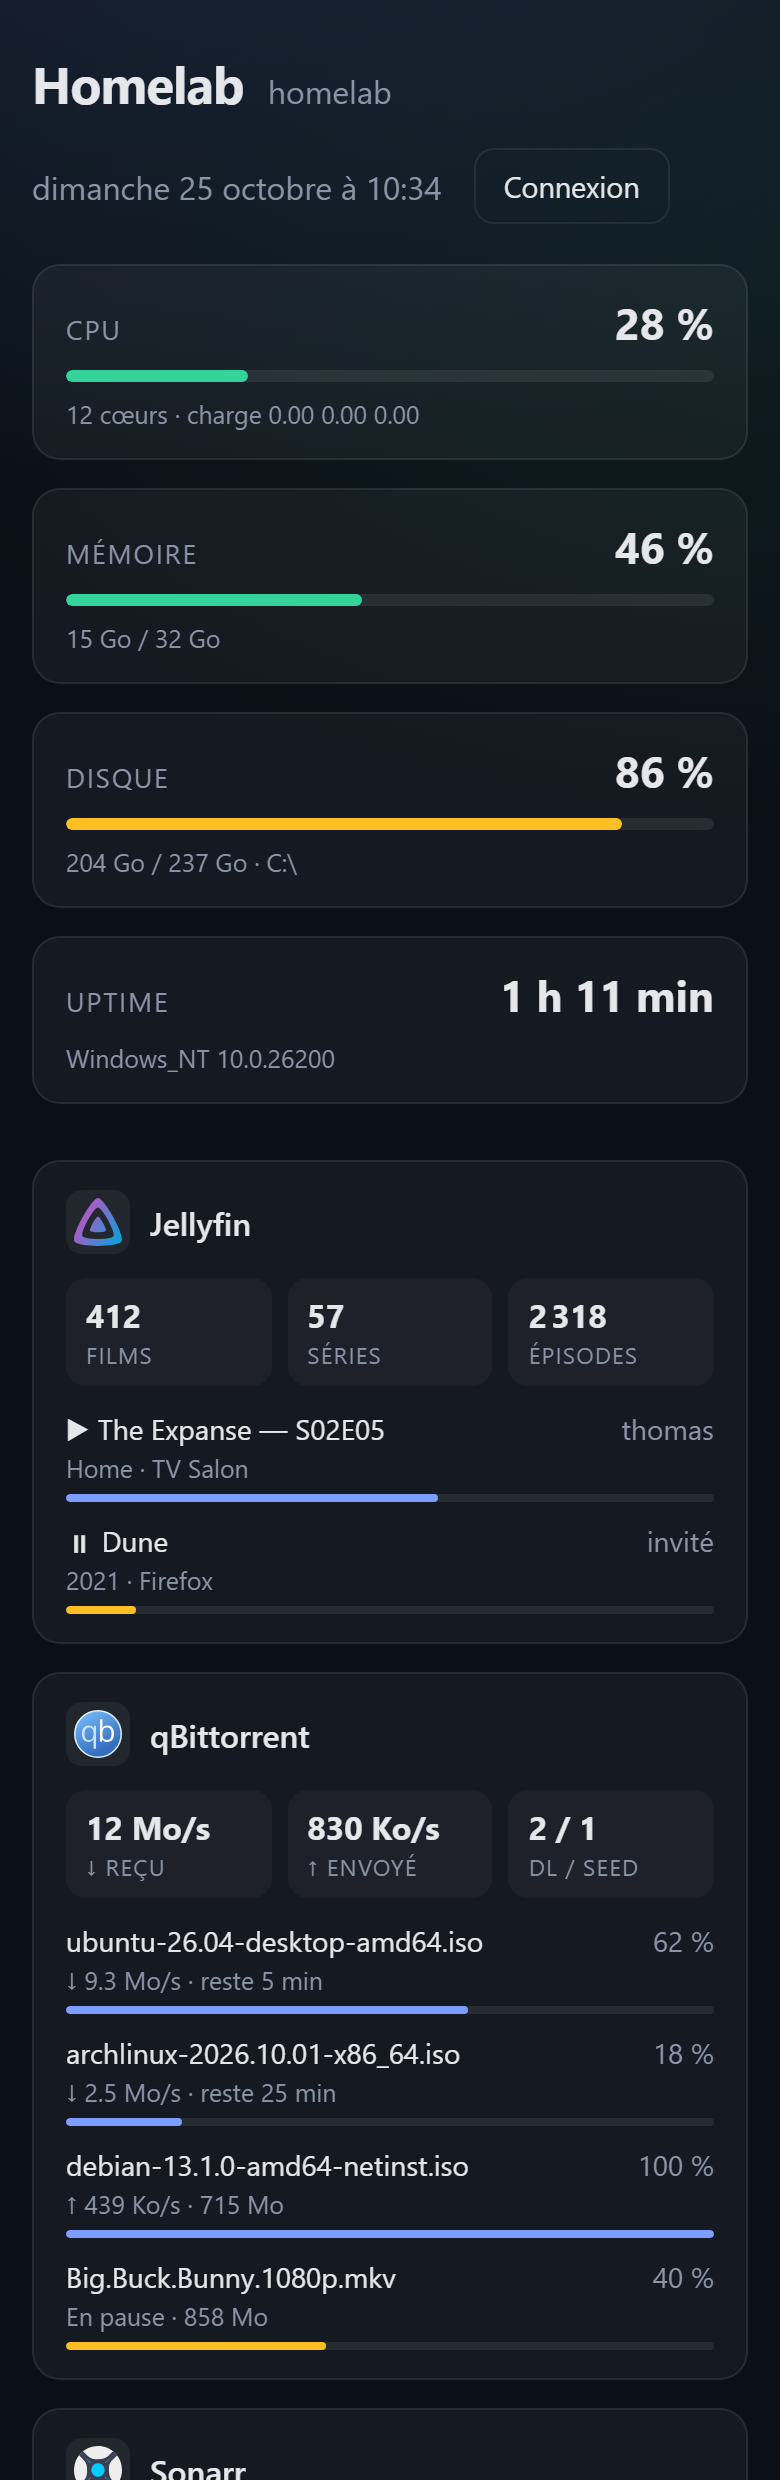
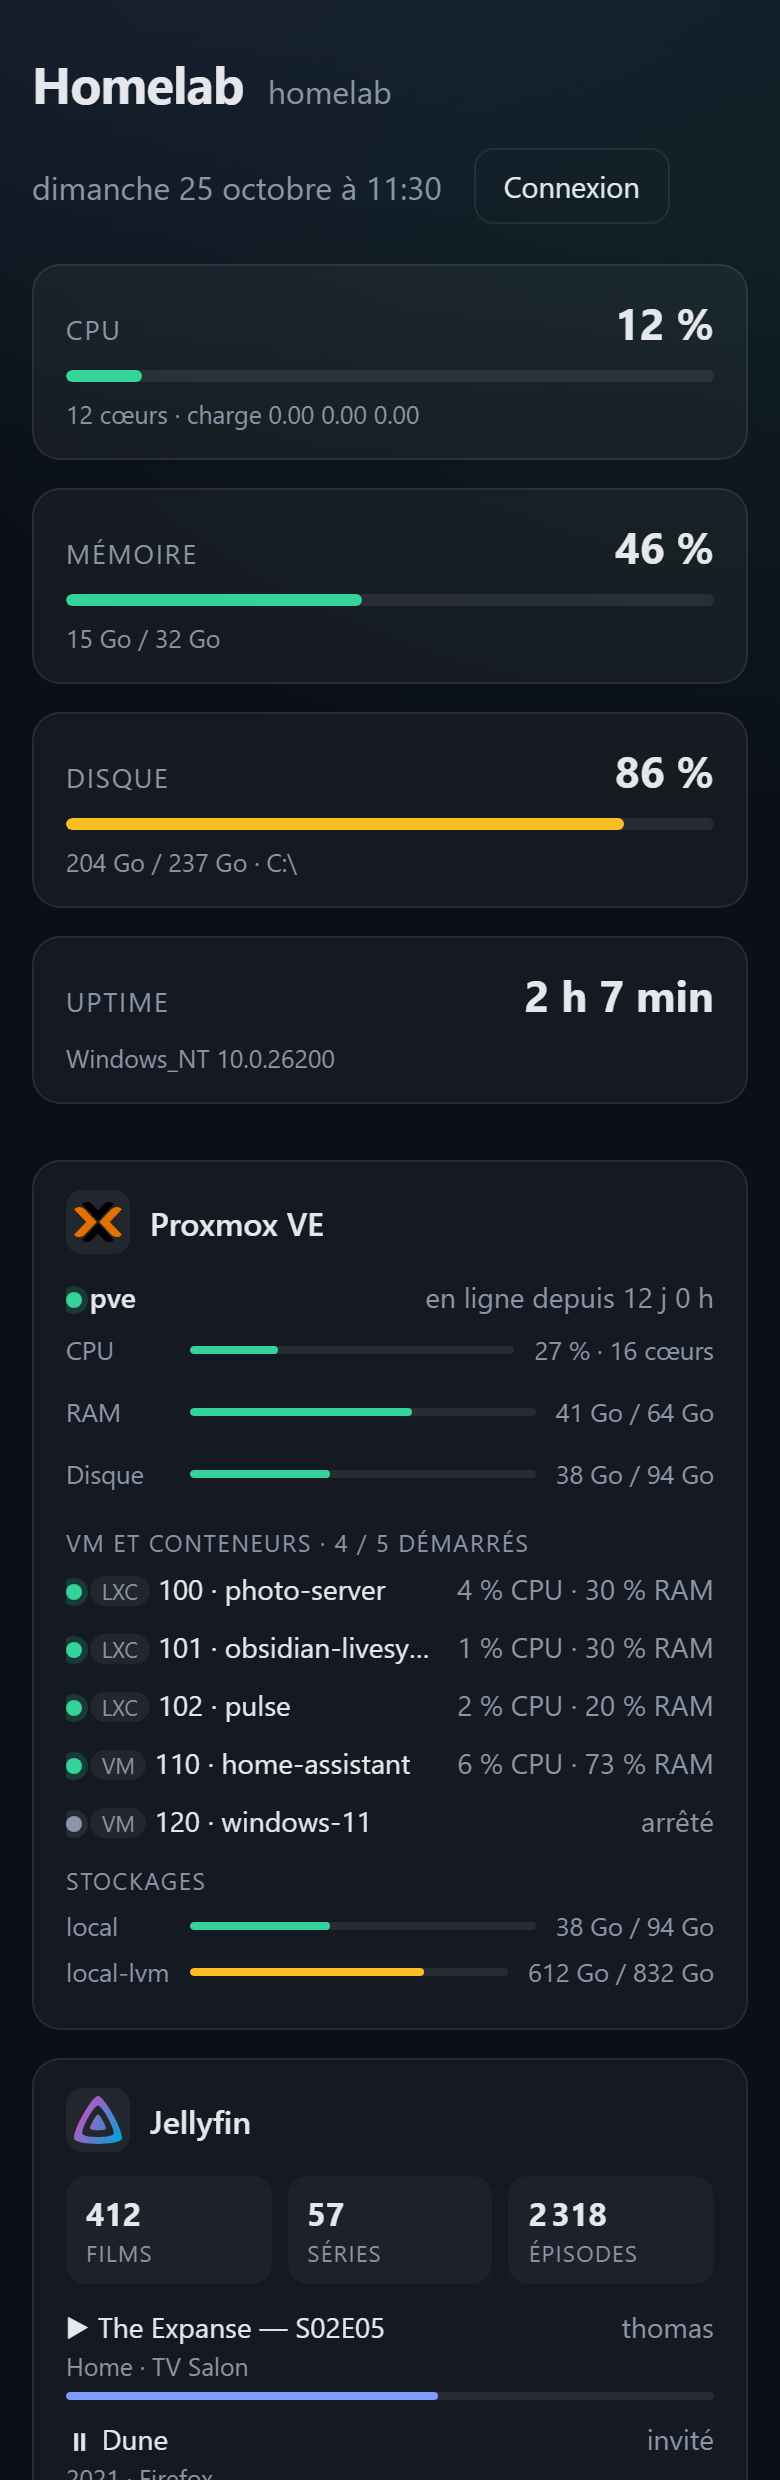
Version 0.2.0 : widget Proxmox VE
- package.json et CHANGELOG en 0.2.0
- Site : Proxmox dans la roadmap (disponible) et la section widgets
- Captures d'écran avec le widget Proxmox

diff --git a/docs/index.html b/docs/index.html
@@ -200,7 +200,7 @@
         <a class="btn" href="https://github.com/Circule-studio/server-dashboard">Voir le code sur GitHub</a>
       </div>
       <div class="shot">
-        <img src="screenshots/dashboard.png" width="1440" height="1400"
+        <img src="screenshots/dashboard.png" width="1440" height="1780"
              alt="Le dashboard : stats CPU, mémoire, disque, widgets Jellyfin, qBittorrent, Sonarr et Radarr, tuiles d'applications et liste des conteneurs Docker">
       </div>
     </header>
@@ -251,6 +251,7 @@
         <h2>Des widgets pour tes services</h2>
         <p class="section-lead">Branche tes applications et suis ce qui se passe sans ouvrir dix onglets.</p>
         <div class="integrations">
+          <span><img src="https://cdn.jsdelivr.net/gh/homarr-labs/dashboard-icons/svg/proxmox.svg" alt="" loading="lazy">Proxmox VE</span>
           <span><img src="https://cdn.jsdelivr.net/gh/homarr-labs/dashboard-icons/svg/jellyfin.svg" alt="" loading="lazy">Jellyfin</span>
           <span><img src="https://cdn.jsdelivr.net/gh/homarr-labs/dashboard-icons/svg/plex.svg" alt="" loading="lazy">Plex</span>
           <span><img src="https://cdn.jsdelivr.net/gh/homarr-labs/dashboard-icons/svg/qbittorrent.svg" alt="" loading="lazy">qBittorrent</span>
@@ -258,10 +259,11 @@
           <span><img src="https://cdn.jsdelivr.net/gh/homarr-labs/dashboard-icons/svg/radarr.svg" alt="" loading="lazy">Radarr</span>
         </div>
         <ul class="checks">
+          <li><b>Proxmox VE :</b> CPU, RAM et disque de l’hôte, état de toutes tes VM et conteneurs LXC.</li>
           <li><b>Jellyfin et Plex :</b> qui regarde quoi, sur quel appareil, avec la progression.</li>
           <li><b>qBittorrent :</b> débits, torrents actifs et temps restant.</li>
           <li><b>Sonarr et Radarr :</b> épisodes et films à venir, file de téléchargement.</li>
-          <li><b>Bientôt :</b> météo, Pi-hole / AdGuard… et le widget que tu proposeras.</li>
+          <li><b>Bientôt :</b> Pi-hole / AdGuard, Immich, météo… et le widget que tu proposeras.</li>
         </ul>
       </div>
       <div class="phone">
@@ -312,11 +314,12 @@ nano .env   # remplace "change-moi"</pre><button class="copy" type="button">Copi
       <p class="section-lead">Où en est le projet et ce qui arrive. Chaque point est une issue GitHub : choisis-en une et lance-toi !</p>
       <div class="roadmap">
         <article class="phase phase-done">
-          <div class="phase-head"><h3>Version 0.1</h3><span class="tag tag-done">Disponible</span></div>
+          <div class="phase-head"><h3>Versions 0.1 – 0.2</h3><span class="tag tag-done">Disponible</span></div>
           <ul>
             <li>Tuiles d'apps avec statut en ligne</li>
             <li>Stats CPU, mémoire, disque, uptime</li>
             <li>Panneau Docker</li>
+            <li>Widget Proxmox VE : hôte, VM et LXC</li>
             <li>Widgets Jellyfin, Plex, qBittorrent, Sonarr, Radarr</li>
             <li>Édition par glisser-déposer</li>
             <li>Installation Docker ou systemd</li>
@@ -335,7 +338,6 @@ nano .env   # remplace "change-moi"</pre><button class="copy" type="button">Copi
         <article class="phase">
           <div class="phase-head"><h3>Nouveaux widgets</h3><span class="tag tag-next">Prochainement</span></div>
           <ul>
-            <li><a href="https://github.com/Circule-studio/server-dashboard/issues/9">Proxmox VE <span>#9</span></a></li>
             <li><a href="https://github.com/Circule-studio/server-dashboard/issues/4">Pi-hole / AdGuard Home <span>#4</span></a></li>
             <li><a href="https://github.com/Circule-studio/server-dashboard/issues/10">Immich <span>#10</span></a></li>
             <li><a href="https://github.com/Circule-studio/server-dashboard/issues/11">Nginx Proxy Manager <span>#11</span></a></li>

diff --git a/CHANGELOG.md b/CHANGELOG.md
@@ -4,6 +4,8 @@ Toutes les évolutions notables du projet. Format inspiré de [Keep a Changelog]
 
 ## [Non publié]
 
+## [0.2.0] - 2026-10-25
+
 ### Ajouté
 - Widget **Proxmox VE** : CPU, RAM et disque de l’hôte, état des VM et conteneurs LXC, stockages (jeton d’API en lecture seule). Faux Proxmox dans `npm run mocks`.
 
@@ -29,5 +31,6 @@ Première version publique.
 - Sessions invalidées à la déconnexion et au changement de mot de passe.
 - Mot de passe admin lu depuis `.env` (Docker) ou `/etc/server-dashboard/server-dashboard.env` (systemd), jamais dans le dépôt.
 
-[Non publié]: https://github.com/Circule-studio/server-dashboard/compare/v0.1.0...HEAD
+[Non publié]: https://github.com/Circule-studio/server-dashboard/compare/v0.2.0...HEAD
+[0.2.0]: https://github.com/Circule-studio/server-dashboard/compare/v0.1.0...v0.2.0
 [0.1.0]: https://github.com/Circule-studio/server-dashboard/releases/tag/v0.1.0
